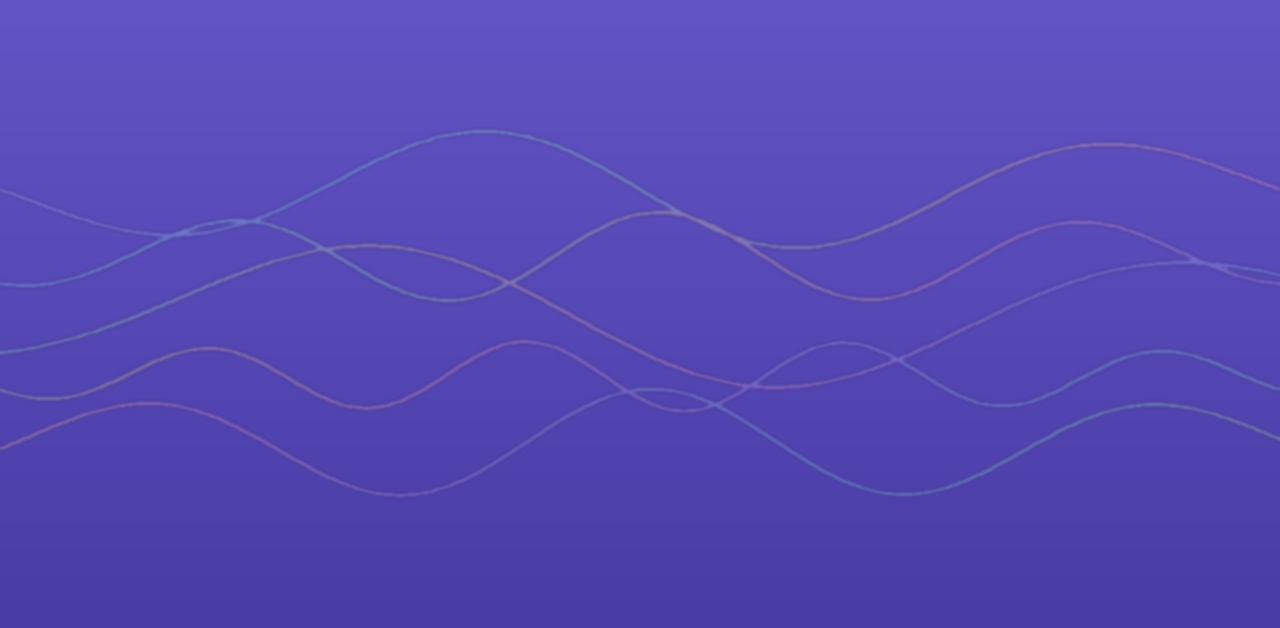
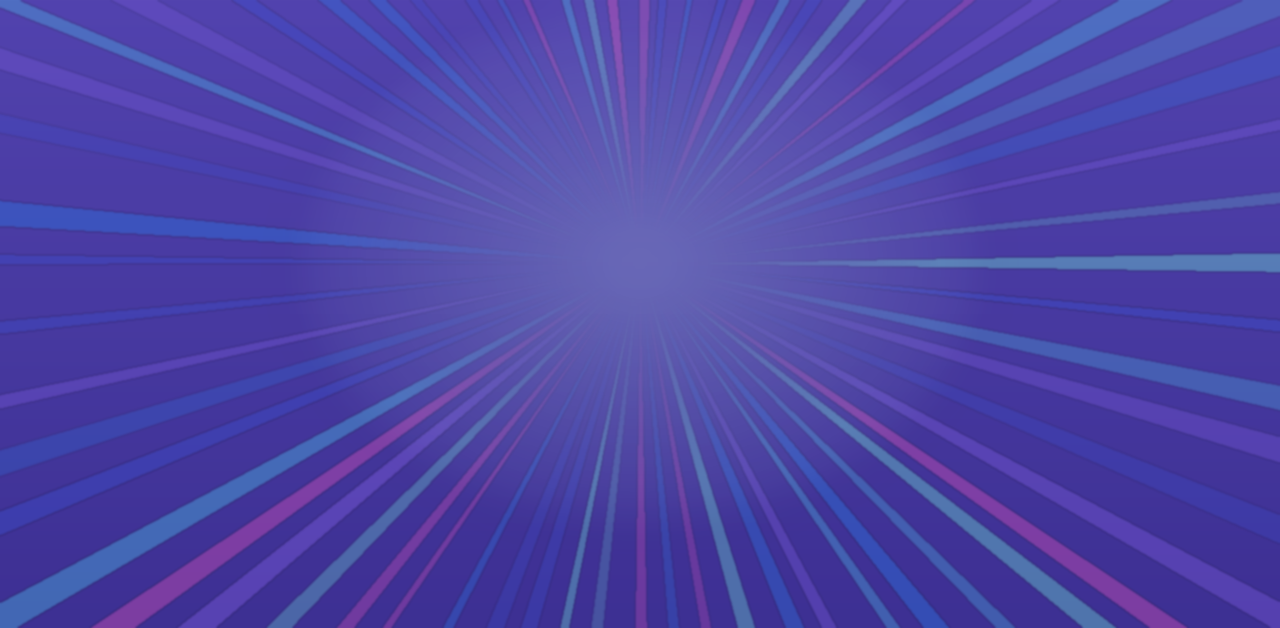
1.0.1: neon light-beam background; tested on MPC Key 37 (Gen 1)

diff --git a/README.md b/README.md
@@ -33,6 +33,15 @@ play your X-Station sounds on the MPC.
   pan and auto-pan.
 - 6 touch-screen pages, all controls on Q-Links. 7 original programs built in.
 
+## Tested on
+
+| Device | Generation | MPC OS | Version |
+|---|---|---|---|
+| MPC Key 37 | Gen 1 (32-bit, armv7) | 3.10.1 or later | 1.0.0 |
+
+Builds are made for both Gen 1 (armv7) and Gen 2 (aarch64) MPCs, but only Gen 1 has been tested
+on hardware so far. Gen 2 owners: reports are very welcome (open an issue).
+
 ## Installing
 
 Requires MPC OS 3.10.1 or later. Enable **Preferences → Enhancements (Beta) → Enable
